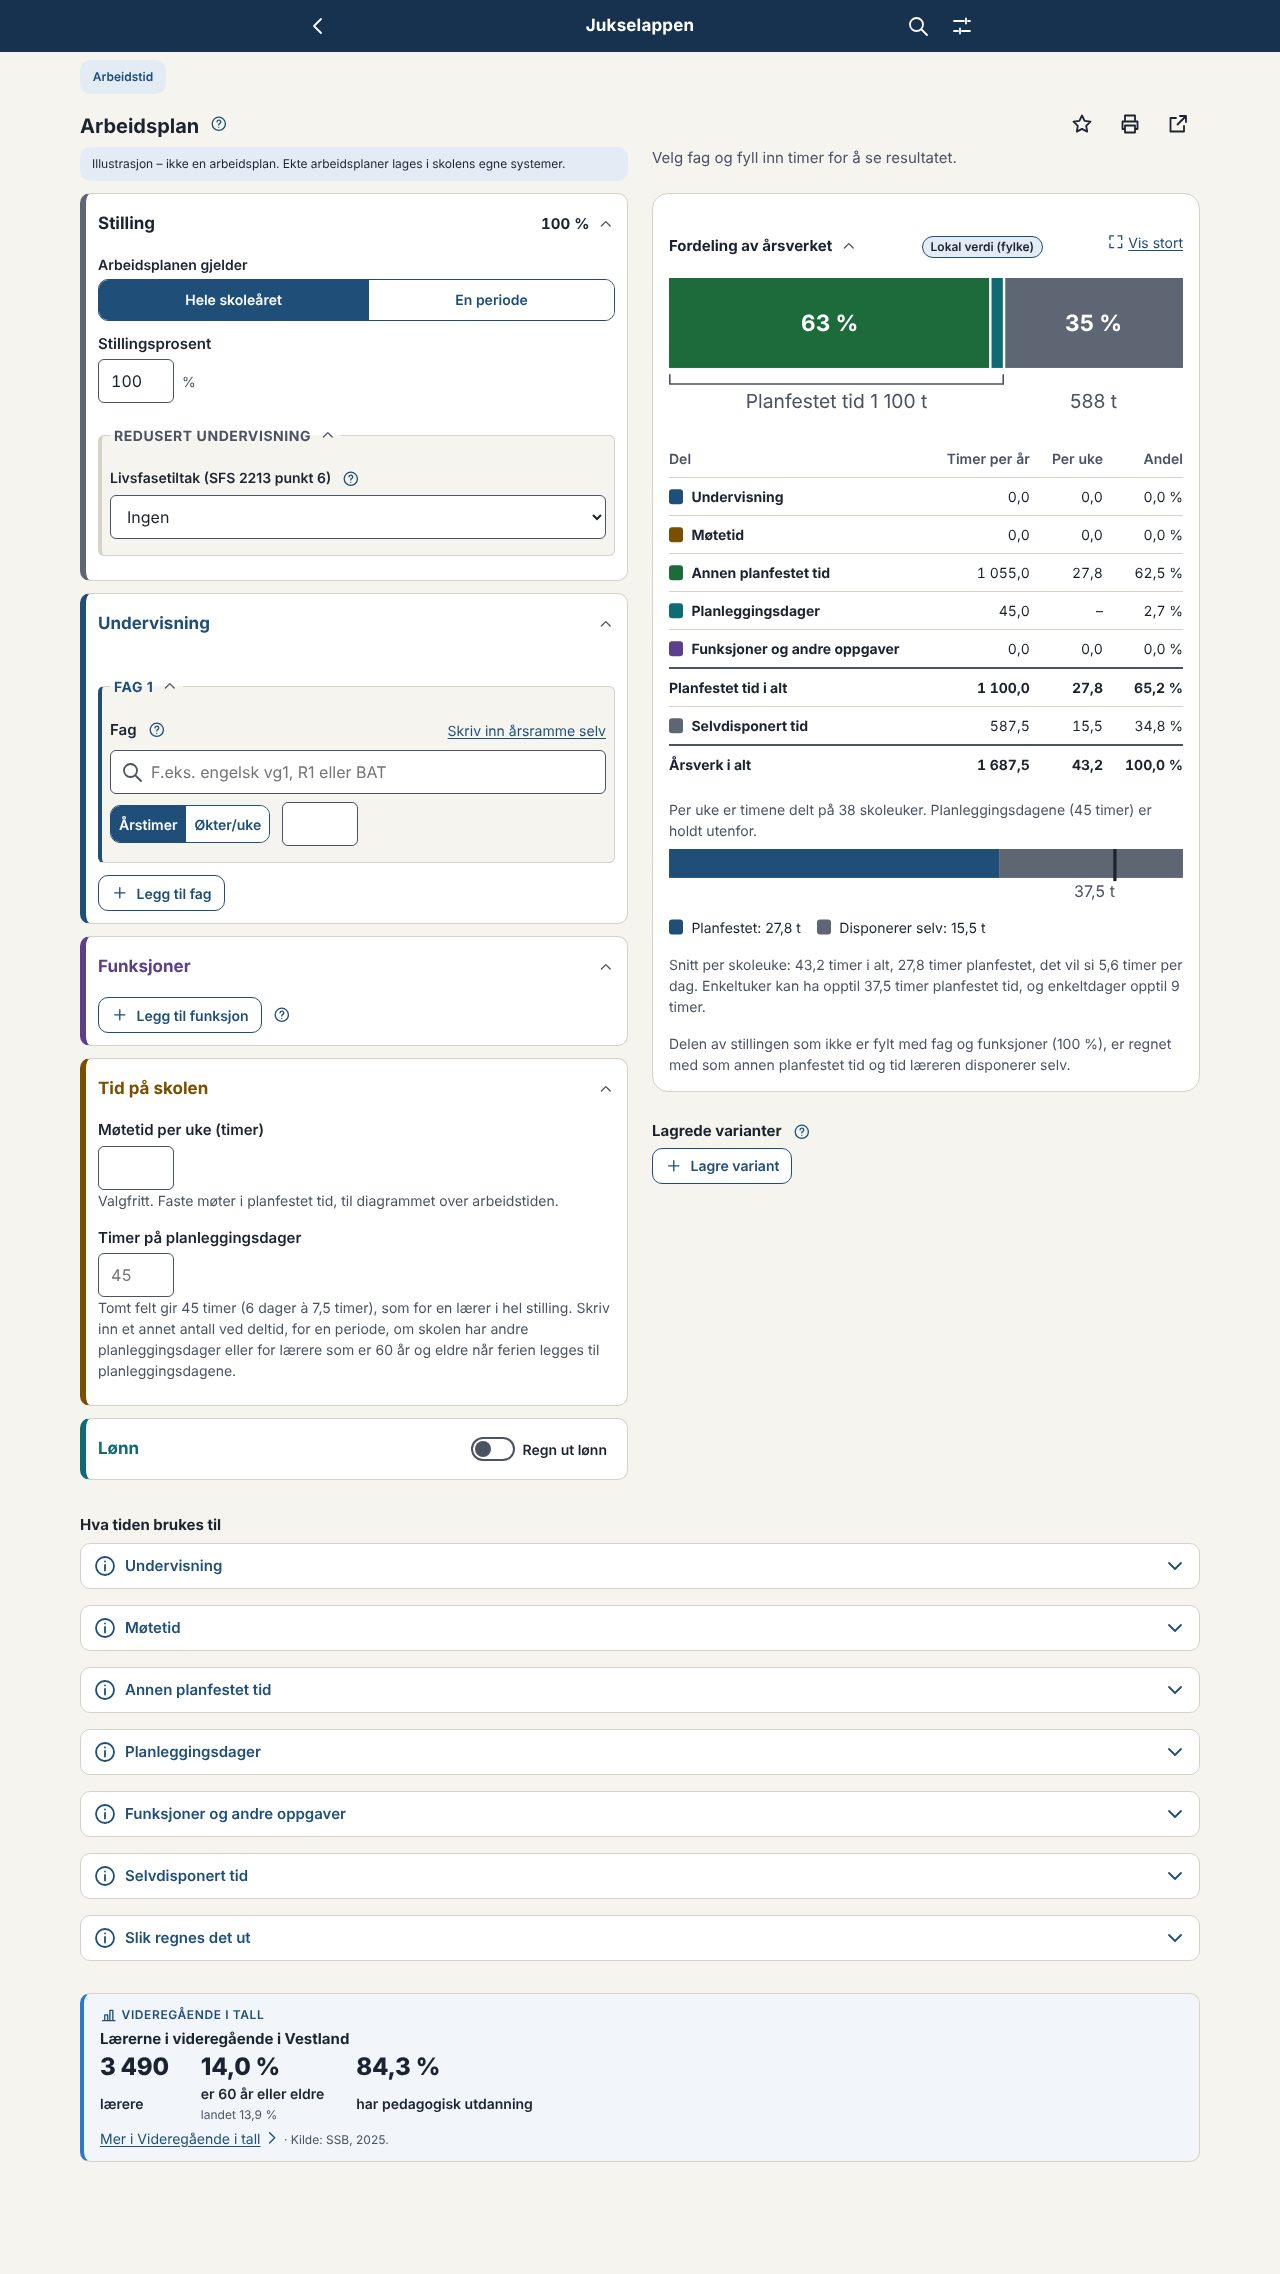
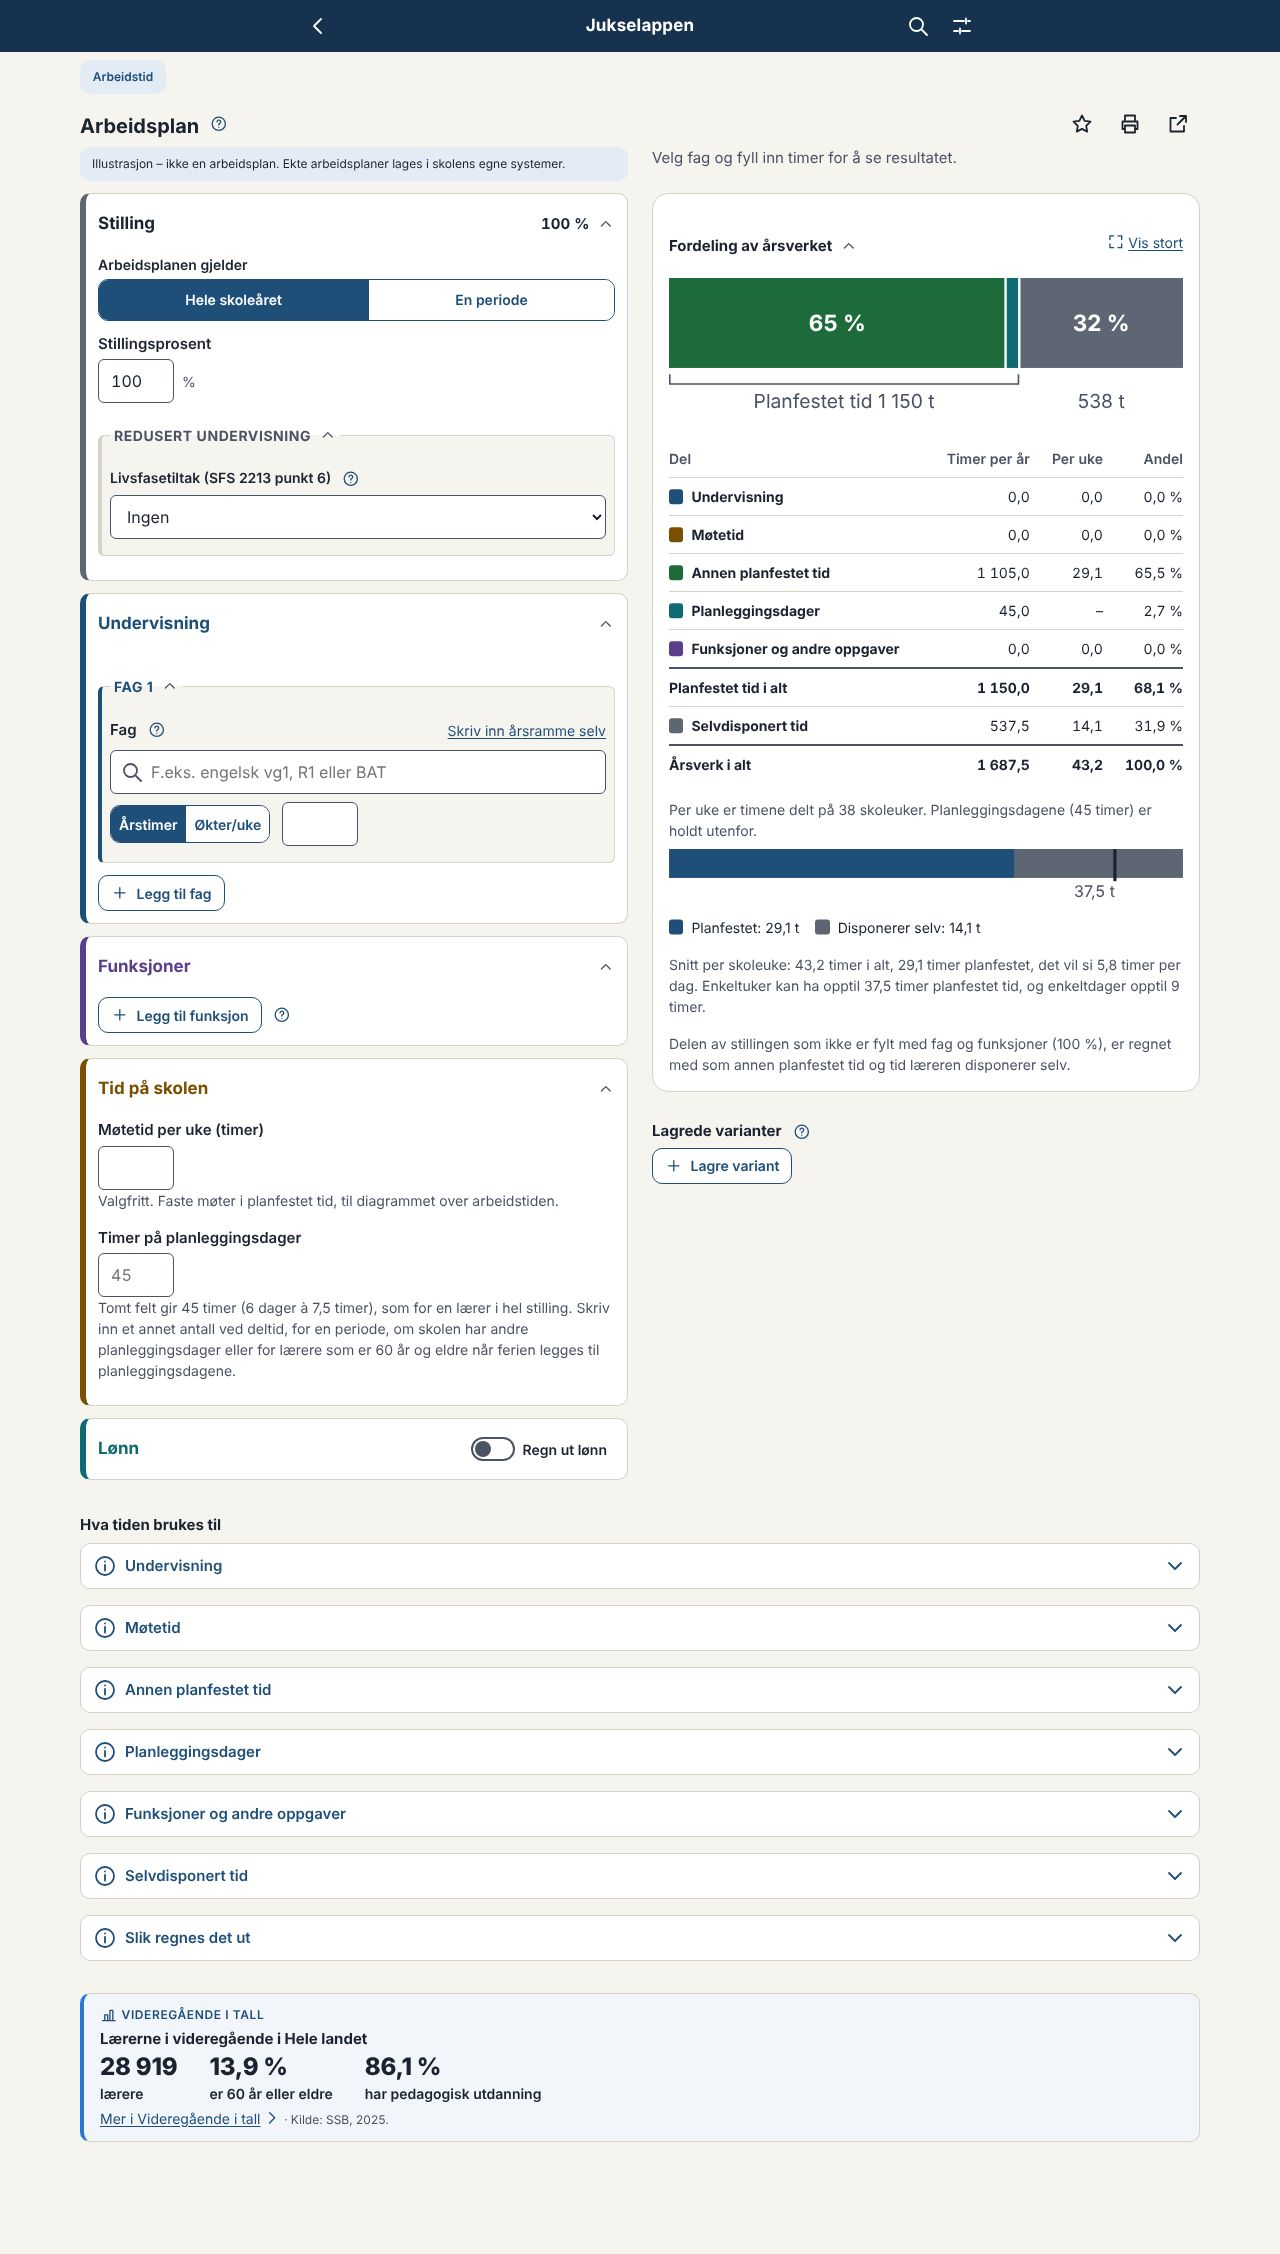
Pakke 1: eiers merknader til Arbeidsplan og bryterne
- Teksten om delen av stillingen som ikke er fylt med fag og funksjoner,
  sier at en del er annen planfestet tid, f.eks. møter og annet
  elevrettet arbeid, og resten tid læreren disponerer selv. Beregningen
  er uendret.
- Av/på-bryterne er gule med mørk knott når de er på, som pillene.
- Tittelen i fag- og funksjonskortene flyter, så alt etter den må stå
  under (også etter fjern-knappen). Testen for funksjonskortet og
  poengberegningen følger det nye oppsettet.
- Skjermbildene av Arbeidsplan er tatt uten valgt fylke: 1 100 timer var
  testverdien for Vestland i utviklingsmiljøet, appen bruker 1 150.

Claude-Session: https://claude.ai/code/session_0151c39j5UoqxnzGQrZ5izg4

diff --git a/src/strings/moduler/arbeidstid.nn.ts b/src/strings/moduler/arbeidstid.nn.ts
@@ -281,7 +281,7 @@ export const arbeidstidNn: Skjema<typeof arbeidstidNb> = {
     lonnMerknadPeriode: 'Løn, tillegg, variabel løn og overtid er det som blir utbetalt for perioden. Løna og tillegga blir rekna frå datoane: heile månader, og arbeidsdagar ÷ 21,67 i brotne månader. Variabel løn og overtid blir rekna med timane i perioden. Feriepengane blir rekna av dette og kjem i tillegg.',
     lonnMerknad: 'Løn, tillegg, variabel løn og overtid er det som blir utbetalt i året. Feriepengane blir rekna av dette og kjem i tillegg.',
     diagramMerknad: 'Diagrammet viser undervisninga og funksjonane som er lagde inn ({prosent} %), som er meir enn stillinga.',
-    ikkeFyltMerknad: 'Delen av stillinga som ikkje er fylt med fag og funksjonar ({prosent} %), er rekna med som anna planfesta tid og tid læraren disponerer sjølv.',
+    ikkeFyltMerknad: 'Delen av stillinga som ikkje er fylt med fag og funksjonar ({prosent} %), er fordelt som undervisninga: ein del er anna planfesta tid, t.d. møte og anna elevretta arbeid, og resten er tid læraren disponerer sjølv.',
   },
   livsfase: {
     tittel: 'Redusert undervisning',

diff --git a/src/strings/moduler/arbeidstid.nb.ts b/src/strings/moduler/arbeidstid.nb.ts
@@ -282,7 +282,7 @@ export const arbeidstidNb = {
     lonnMerknadPeriode: 'Lønn, tillegg, variabel lønn og overtid er det som utbetales for perioden. Lønnen og tilleggene regnes fra datoene: hele måneder, og arbeidsdager ÷ 21,67 i brutte måneder. Variabel lønn og overtid regnes med timene i perioden. Feriepengene regnes av dette og kommer i tillegg.',
     lonnMerknad: 'Lønn, tillegg, variabel lønn og overtid er det som utbetales i året. Feriepengene regnes av dette og kommer i tillegg.',
     diagramMerknad: 'Diagrammet viser undervisningen og funksjonene som er lagt inn ({prosent} %), som er mer enn stillingen.',
-    ikkeFyltMerknad: 'Delen av stillingen som ikke er fylt med fag og funksjoner ({prosent} %), er regnet med som annen planfestet tid og tid læreren disponerer selv.',
+    ikkeFyltMerknad: 'Delen av stillingen som ikke er fylt med fag og funksjoner ({prosent} %), er fordelt som undervisningen: en del er annen planfestet tid, f.eks. møter og annet elevrettet arbeid, og resten er tid læreren disponerer selv.',
   },
   livsfase: {
     tittel: 'Redusert undervisning',

diff --git a/src/styles/base.css b/src/styles/base.css
@@ -1217,15 +1217,16 @@ main {
   background: var(--farge-tekst-dempet);
 }
 
+/* På er gult med mørk knott, som de valgte pillene (eier 08.10.2026, docs/DESIGN.md). */
 .vippe input:checked {
-  background: var(--farge-merke);
-  border-color: var(--farge-merke);
+  background: var(--farge-aksent);
+  border-color: var(--farge-aksent);
 }
 
 .vippe input:checked::after {
   left: auto;
   right: 2px;
-  background: var(--farge-merke-tekst);
+  background: var(--farge-aksent-tekst);
 }
 
 .vippe label {

diff --git a/CHANGELOG.md b/CHANGELOG.md
@@ -10,11 +10,13 @@ Alle endringer brukerne merker, føres her. Formatet følger [Keep a Changelog](
   - Delene i skjemaet er hvite kort med tynn kant og titler i vanlig tekstfarge, uten de tykke fargede strekene. I Arbeidsplan har delene og fagene en liten prikk i fargen de har i diagrammet.
   - «Fag 1» står i kortet, i vanlig skrift.
   - Valgene er gule piller, og korte valg som 45, 60 og 90 er avrundede firkanter. Det samme gjelder valgene i Opplæringstilbud, Kalender og Elevundersøkelsen.
+  - Av/på-bryterne er gule når de er på, som valgene, i hele appen.
   - Resultatet står i et kort fra start, også før noe er fylt inn, så kolonnen til høyre ikke står tom på skrivebord.
   - «Lagrede varianter» står i et kort, og forklaringene under kalkulatoren står samlet i én boks.
 
 ### Rettet
 
+- **Arbeidsplan:** Teksten om delen av stillingen som ikke er fylt med fag og funksjoner, sier tydeligere at en del er annen planfestet tid, f.eks. møter og annet elevrettet arbeid, og resten tid læreren disponerer selv.
 - **Merker, piler og ikoner** ved tekst står midt i teksthøyden i hele appen, f.eks. pilen i «Mer i Videregående i tall» og merkene «SSB» og «Udir».
 
 ## [0.44.0] – 2026-10-08

diff --git a/docs/arbeidsordrer/fase-8b-forslag.md b/docs/arbeidsordrer/fase-8b-forslag.md
@@ -14,6 +14,11 @@ Testversjonen: https://jukselappen.no/test/ (sammenlign med https://jukselappen.
 - **«Lagrede varianter»** står i et kort.
 - **Forklaringene** etter hverandre («Hva tiden brukes til», «Slik regnes grensen», «Slik regnes poengene») står i én boks med en tynn strek mellom.
 
+**Eiers merknader (08.10.2026) og hva som er gjort:**
+- **1 100 timer planfestet tid** i skjermbildene var en testverdi for Vestland som bare finnes i utviklingsmiljøet (`tests/fixtures/regler/sfs2213-fylke-46.yaml`). Appen bruker 1 150 timer fra regelsettet. Skjermbildene er tatt på nytt uten valgt fylke.
+- **«Disponerer læreren selv»:** Teksten under fordelingen sier nå at den ufylte delen av stillingen er fordelt som undervisningen: en del er annen planfestet tid, f.eks. møter og annet elevrettet arbeid, og resten er tid læreren disponerer selv. Beregningen er ikke endret.
+- **Bryterne:** Av/på-bryterne er gule med mørk knott når de er på, som de valgte pillene, i hele appen.
+
 | | Før | Etter |
 |---|---|---|
 | Arbeidsplan, skrivebord | ![](bilder/fase-8b-p1-for-arbeidsplan.jpg) | ![](bilder/fase-8b-p1-etter-arbeidsplan.jpg) |

diff --git a/docs/DESIGN.md b/docs/DESIGN.md
@@ -51,7 +51,7 @@ Et kort samler én ting: et skjema, en oppføring eller en forklaring.
 - **Korte valg** (høyst sju tegn, f.eks. 45, 60, 90 og Annet) er avrundede firkanter (`--radius-m`), ikke runde piller, med samme farger (eier 08.10.2026). `Bryter` gir dem klassen `bryter-korte` selv.
 - Det samme gjelder faner og filtre på en side (temafanene i Videregående i tall, filtrene i søket og kalenderen).
 - Unntak: valgene i overskriften på panelet på forsiden er rolige tekstknapper med strek under, og valget i det mørke toppfeltet på forsiden beholder sin form.
-- Bryter (av/på) og nedtrekkslister er som før.
+- **Av/på-brytere** (`vippe`) er gule med mørk knott når de er på, som de valgte pillene (eier 08.10.2026). Nedtrekkslister er som før.
 - Ingen mørkeblå fylte flater i innholdet. Mørkeblått er toppfeltet og hovedknappene.
 
 *Eksempler:* fanene på temasidene, «Fylkene / Etter bakgrunn», filtrene i kalenderen.
